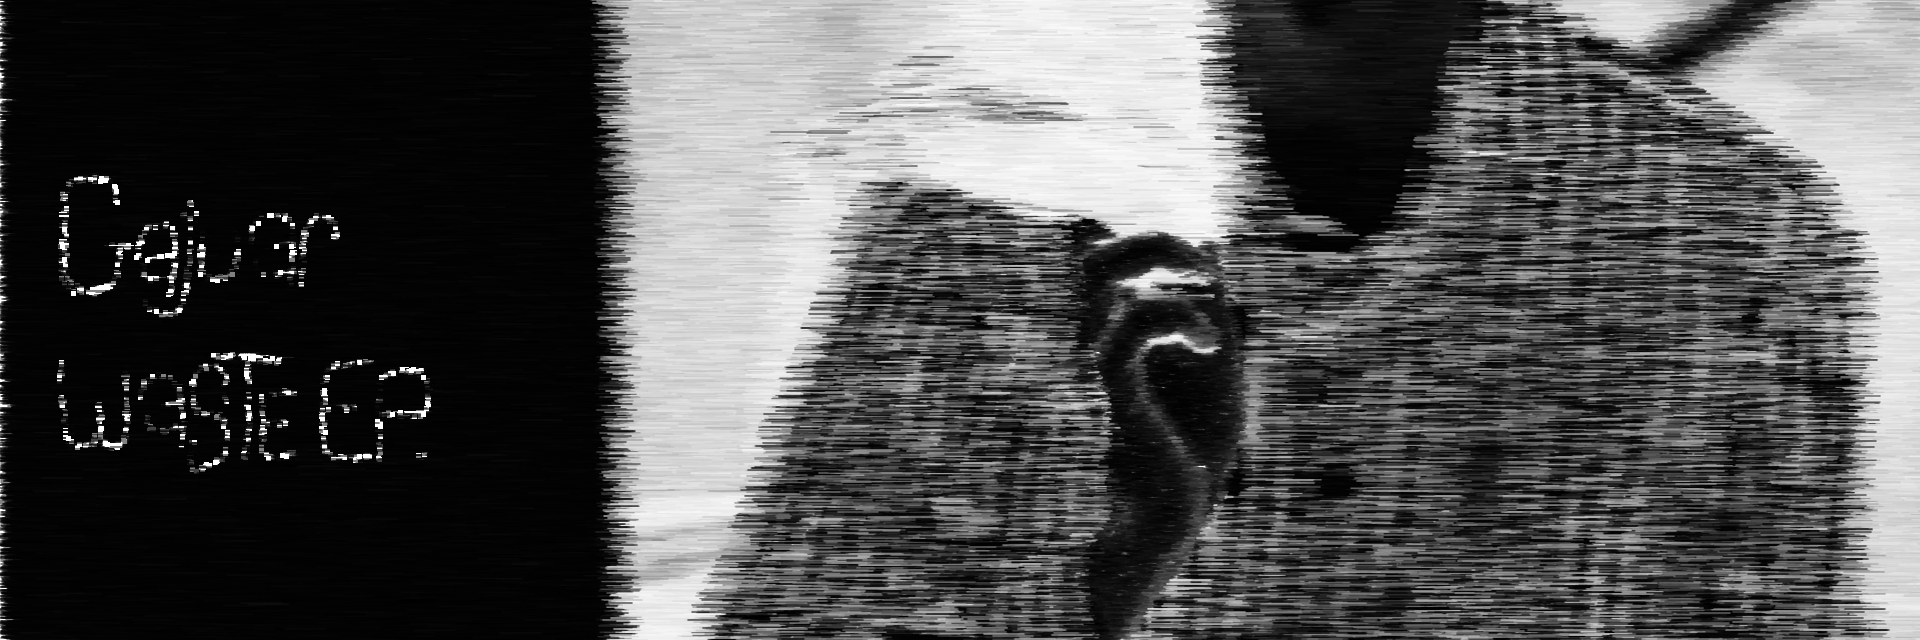
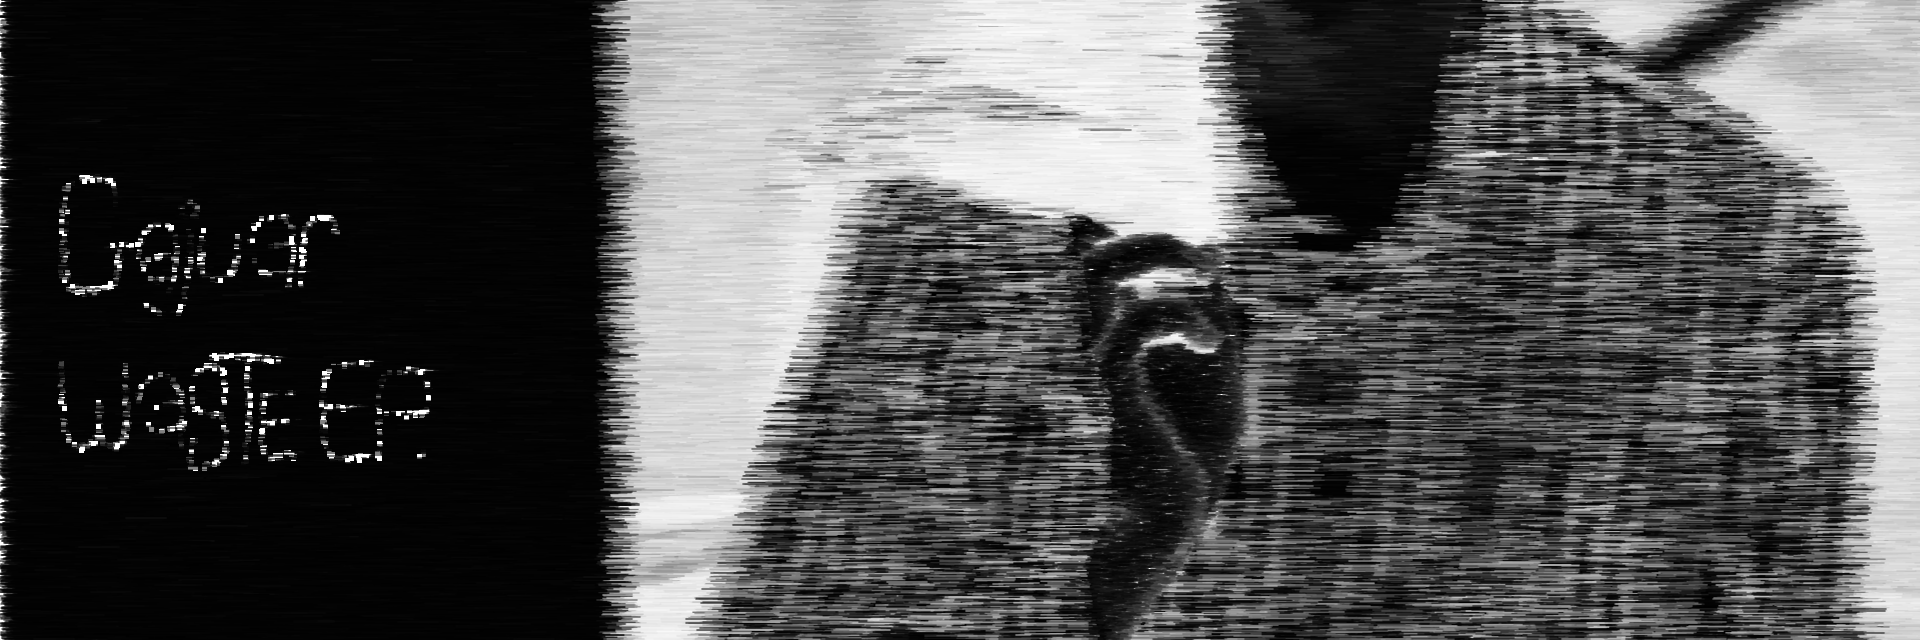
updated thumbnail/preview

diff --git a/sketch.js b/sketch.js
@@ -3,9 +3,9 @@ let maskImg = null;
 let renderCounter = 0;
 
 // change these three lines as appropiate
-let sourceFile = "input_3colour.jpg";
-let maskFile = "mask_3colour.png";
-let outputFile = "output_3.png";
+let sourceFile = "input_2inverted.jpg";
+let maskFile = "mask_2.png";
+let outputFile = "output_2.png";
 let wasteTextFile = "wasteText.png";
 let wasteTextImage1File = "wasteText_image_1.PNG";
 let wasteTextImage3File = "wasteText_image_3.PNG";
@@ -31,8 +31,7 @@ function setup() {
 }
 
 function draw() {
-  //IMAGE_1 CODE
-  for (let i = 0; i < 15000; i++) {
+  for (let i = 0; i < 20000; i++) {
     let x = floor(random(sourceImg.width));
     let y = floor(random(sourceImg.height));
     let pix = sourceImg.get(x, y);
@@ -47,6 +46,8 @@ function draw() {
 
       gajuarText(x, y);
   }
+
+
 
 
   // IMAGE_2 CODE
@@ -105,9 +106,12 @@ function gajuarText(x, y) {
     noStroke();
     fill (255);
     //fill(100, 187, 245);
-    rect(x, y, 5, 5);
+     rect(x, y, 5, 5);
+
   }
 }
+
+
 
 
 

diff --git a/README.md b/README.md
@@ -1,4 +1,3 @@
 ## Creative Coding 2: Custom Pixel
 
-For this commit, I took on some feedback from Cathal on what he liked, I felt that this was important seeing as it is his image/brand that I am using. He said that he really liked the first one, the blended/hidden look of it is interesting. He wasn't really feeling the last image though, and said that having the text element wasn't important/didn't matter to him. So I've changed up a few things. I've gone back to the original input image for image 1, inverted the colours on image 2 (I really like the effect this has), and reverted image 3 back to colour. I've kept the text for images 2 and 3, but changed it to be white (the blue looked weird, like very obviously added over top rather than being a part of the image). I'm pretty happy with how they've turned out, but I really need to sort out my rendercounter issues and get some design feedback before hand-in.
-(there are alot of input images now, that's just a result of playing around with different variations)
+Just doing a commit with updated previews/thumbnails to get some help on how to draw the text rects over top of the lines.
